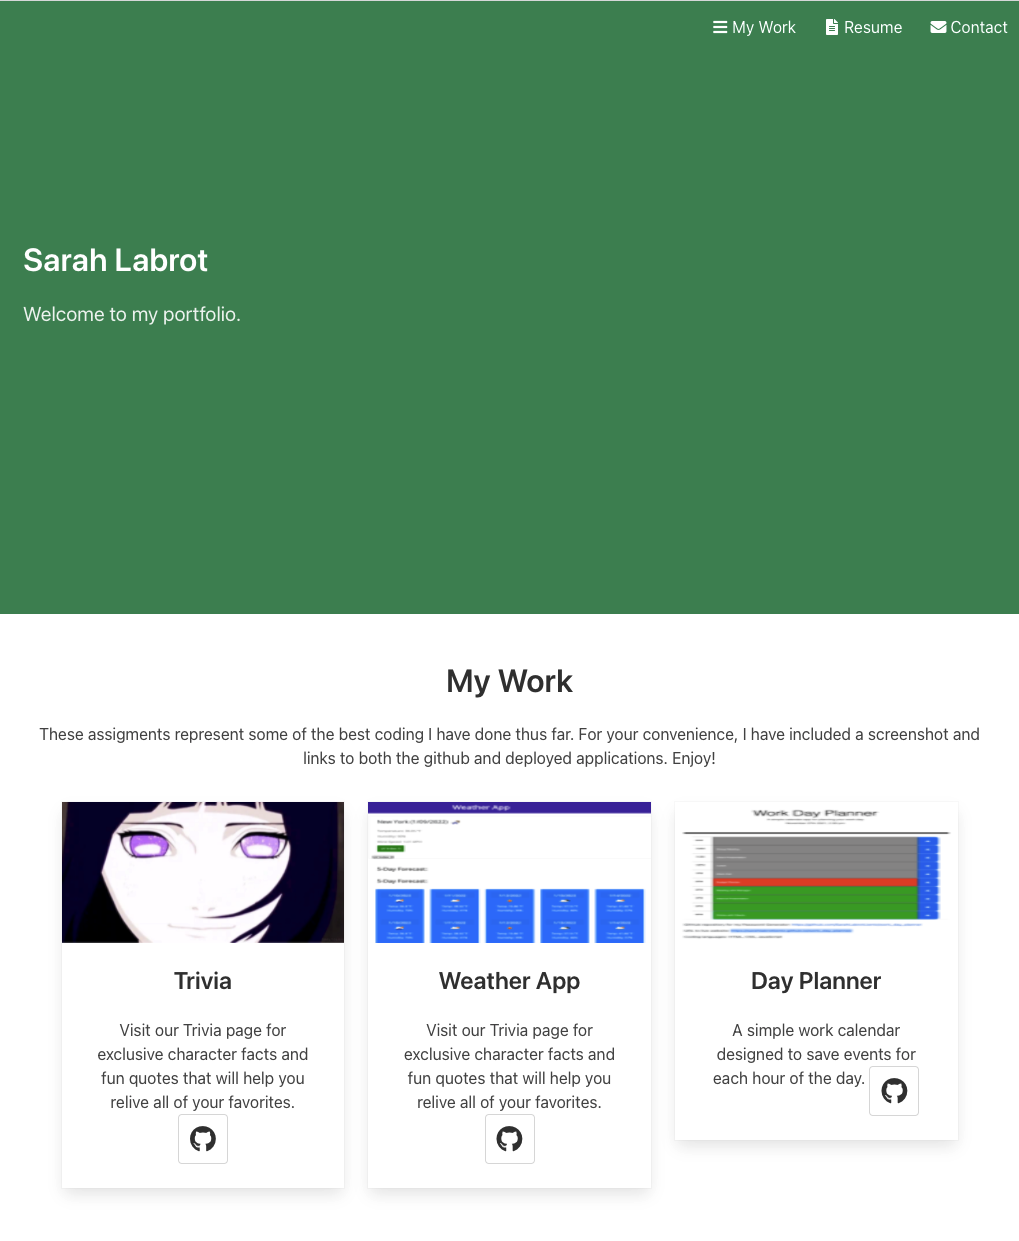
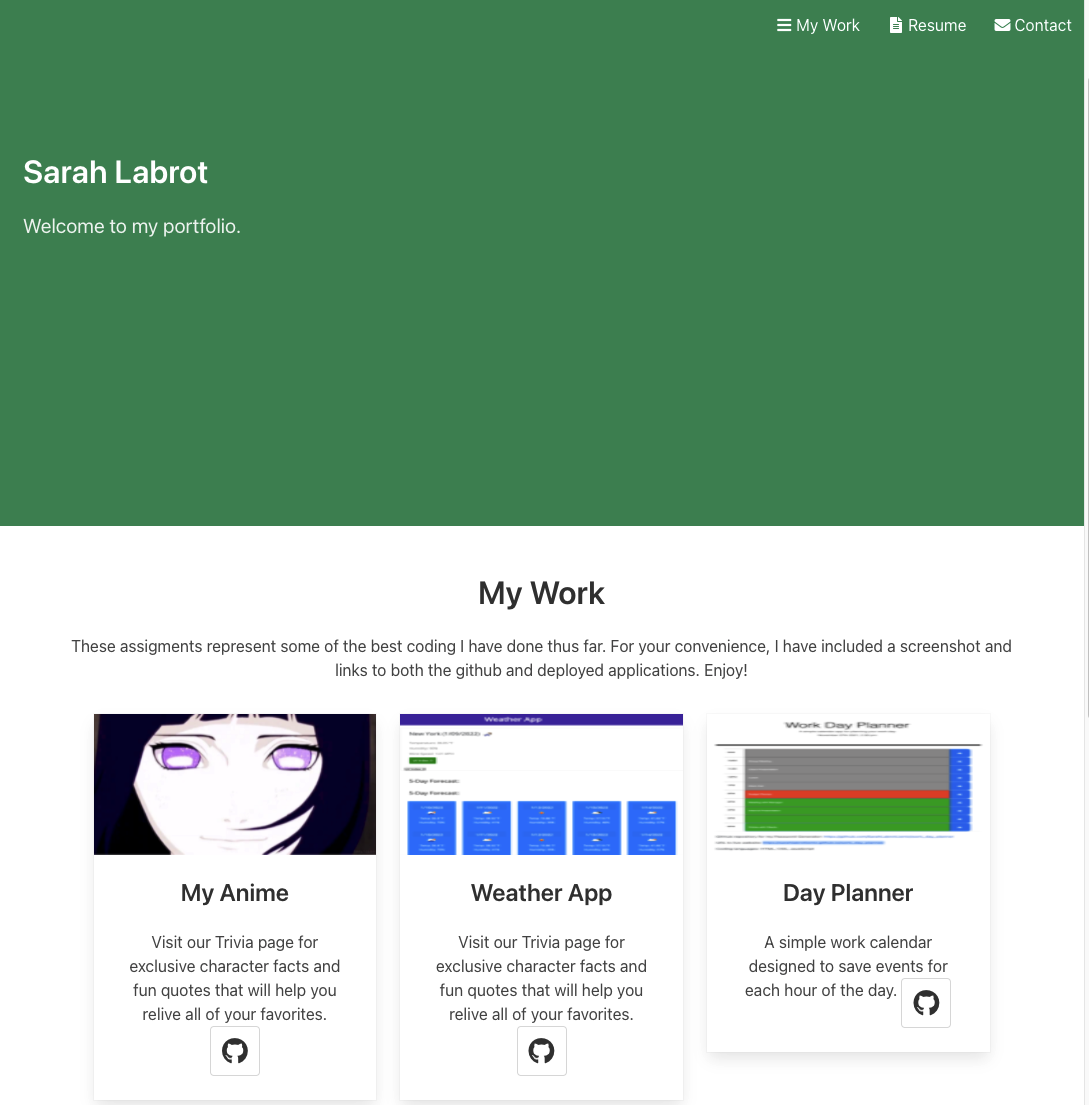
updated card header

diff --git a/index.html b/index.html
@@ -91,7 +91,7 @@
                     <div class="card-content">
                         <div class="media">
                             <div class="media-content">
-                                <p class="title is-4">Trivia</p>
+                                <p class="title is-4">My Anime</p>
                             </div>
                         </div>
 

diff --git a/assets/style.css b/assets/style.css
@@ -8,10 +8,7 @@
     background-color: seagreen;
 }
 
-.icon {
-    
-    justify-content: center;
-}
+
 
 .animate__animated.animate__lightSpeedInRight {
     --animate-duration: 7s;

diff --git a/README.md b/README.md
@@ -1,9 +1,6 @@
 # Updated_Portfolio
-Sarah Labrot's updated portfolio with mobile responsive features, animation, and a downloadable resume. Additional features include links to my LinkedIn, Github and Instagram accounts. 
+Welcome to my updated portfolio with mobile responsive features, animation, and a downloadable resume. Additional features include links to my LinkedIn, Github and Instagram accounts. 
 
-Directions for future development:
-
-I would like to scrap this site and create something with dry code. My creative process got a bit messy and while i'm happy with the outward appearence I would like to explore bulma for a new css outlet. I would also like to see more models in my portolio section. I initially had 6 but the code got messy and I ultimately decided to go with simplicity. 
 
 
 URL to live website: https://sarahlabrotlientz.github.io/Updated_Portfolio/
